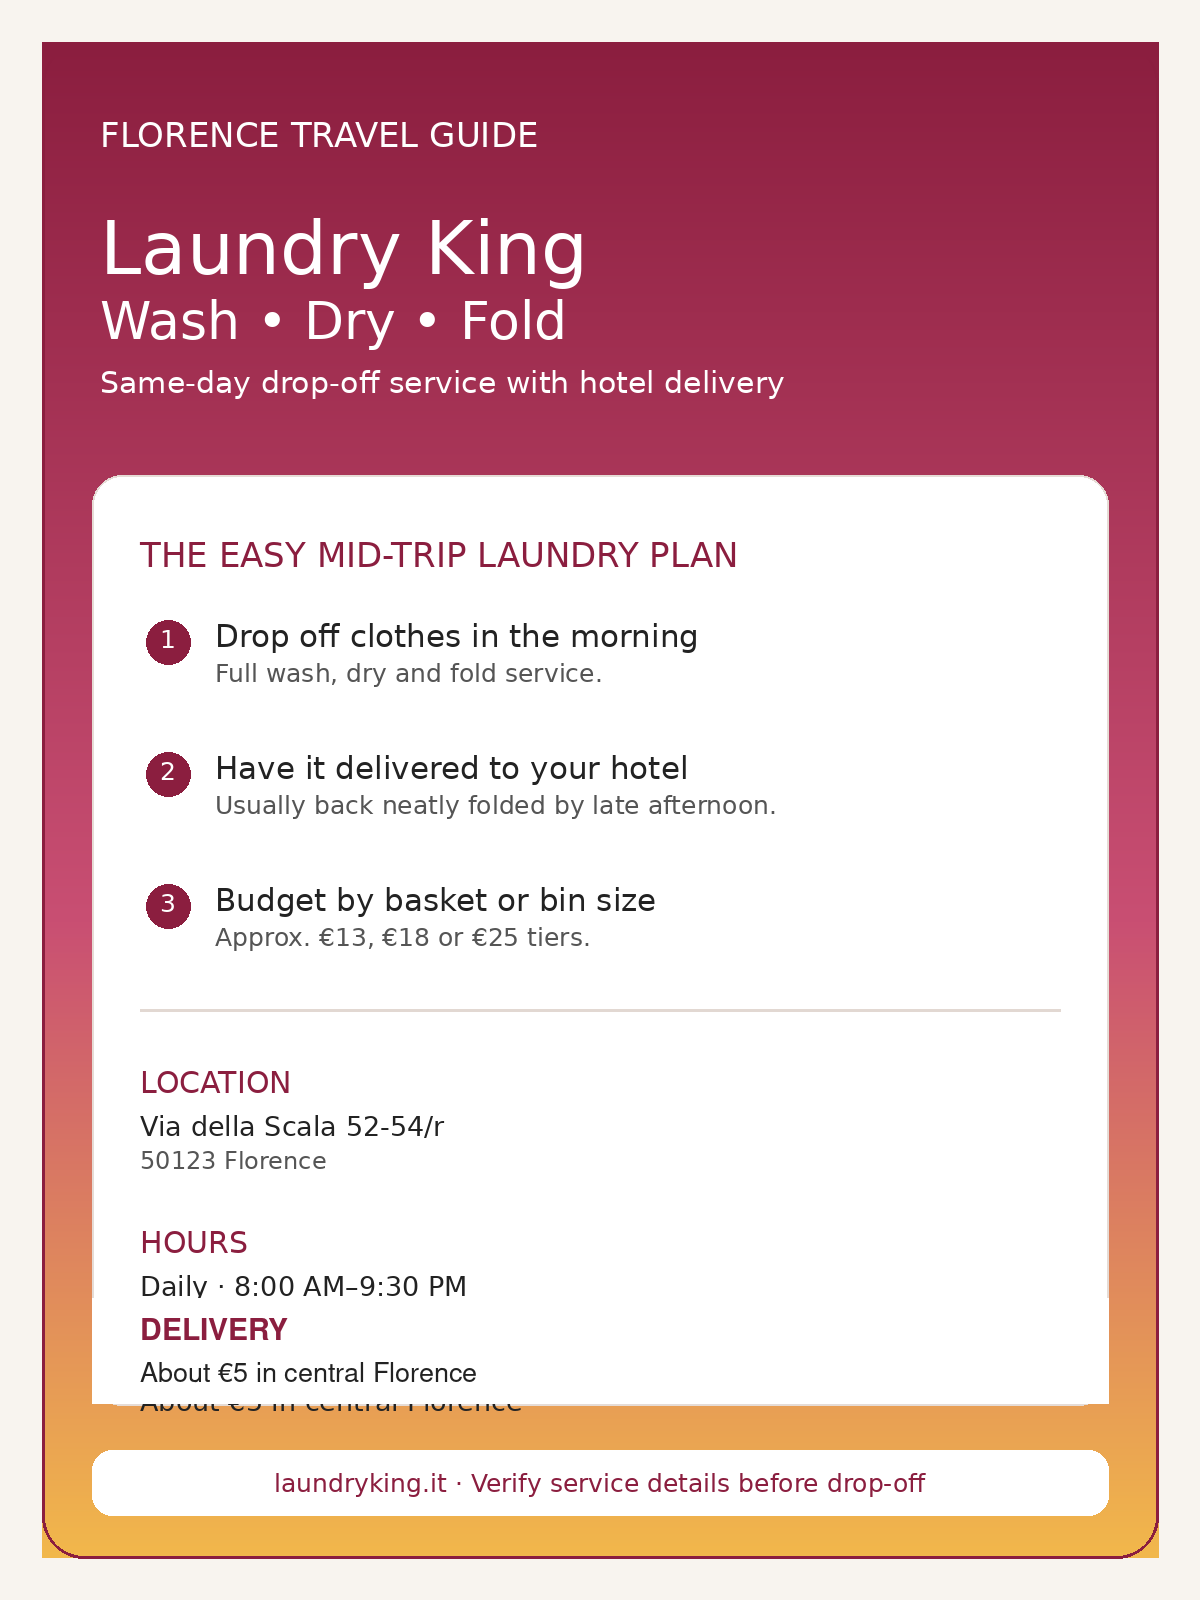
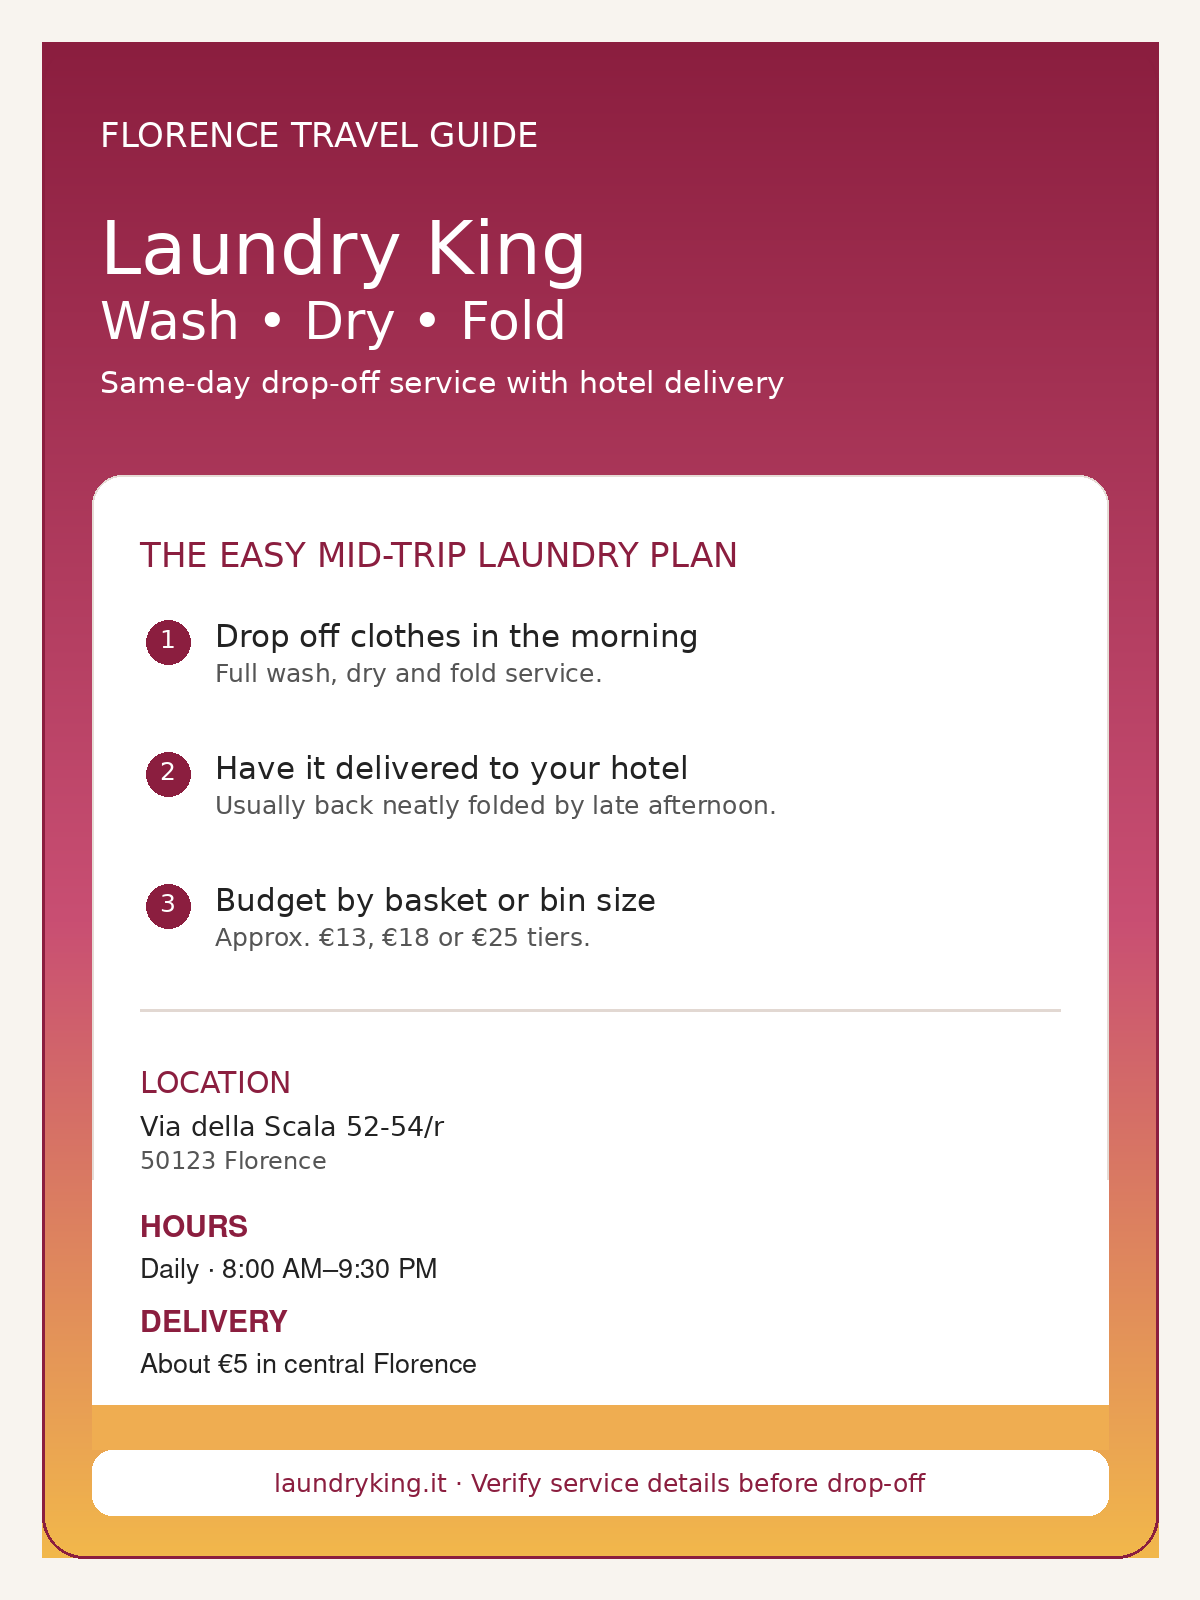
Add still-water phrase and finalize laundry flyer

Changed region(s): [[0.1233, 0.75, 0.4008, 0.875]]

diff --git a/tests/app.test.js b/tests/app.test.js
@@ -406,6 +406,7 @@ test("Packing, phrases, and safety are separate tools and phrase changes survive
   assert.equal(builtIns.some(item => item.en === "Good night" && item.it === "Buonanotte" && item.pr), true);
   assert.equal(builtIns.some(item => item.en === "Where is the bathroom?" && item.it === "Dov'è il bagno?" && item.pr), true);
   assert.equal(builtIns.some(item => item.en === "Watch out, pickpocket!" && item.it === "Attenzione, borseggiatore!" && item.pr), true);
+  assert.equal(builtIns.some(item => item.id === "phrase-water-still" && item.it === "Vorrei un'acqua naturale, per favore" && item.pr === "voh-RAY oon-AHK-wah nah-too-RAH-lay, pair fah-VOH-ray"), true);
   assert.match(document.querySelector(".phrase-group h3").textContent, /Greetings/);
   assert.match(document.querySelector("#prepContent").textContent, /English ↔ Italian Translator/);
   assert.match(window.openItalianTranslator.toString(), /GOOGLE_TRANSLATE_DIRECT_COMPONENT/);

diff --git a/data.js b/data.js
@@ -527,6 +527,7 @@
       "Restaurants": [
         {en:"The bill, please",it:"Il conto, per favore",pr:"eel KON-to"},
         {en:"Water",it:"Acqua",pr:"AH-kwah"},
+        {id:"phrase-water-still",en:"I would like still water, please",it:"Vorrei un'acqua naturale, per favore",pr:"voh-RAY oon-AHK-wah nah-too-RAH-lay, pair fah-VOH-ray"},
         {en:"Coffee",it:"Caffè",pr:"kahf-FEH"},
         {en:"A table for two, please",it:"Un tavolo per due, per favore",pr:"oon TAH-voh-loh pair DOO-eh, pair fah-VOH-ray"},
         {id:"phrase-custom-da366552-4415-4bbf-9781-fa032d9078ce",en:"Cheese",it:"Formaggio",pr:"for-MAHD-joh"},

diff --git a/CHANGELOG.md b/CHANGELOG.md
@@ -11,6 +11,7 @@
 - Preserved luggage notes on both phones without replacing phone data.
 - Preserved prep-tab selection in the URL so refreshing Phrases or Safety returns to that tab.
 - Added the reviewed Google Translate direct-component test path with app, Play Store, and web fallbacks.
+- Added the permanent restaurant phrase “Vorrei un'acqua naturale, per favore” with syllable-by-syllable pronunciation.
 
 ## [10.12.1] - 2026-09-05
 
